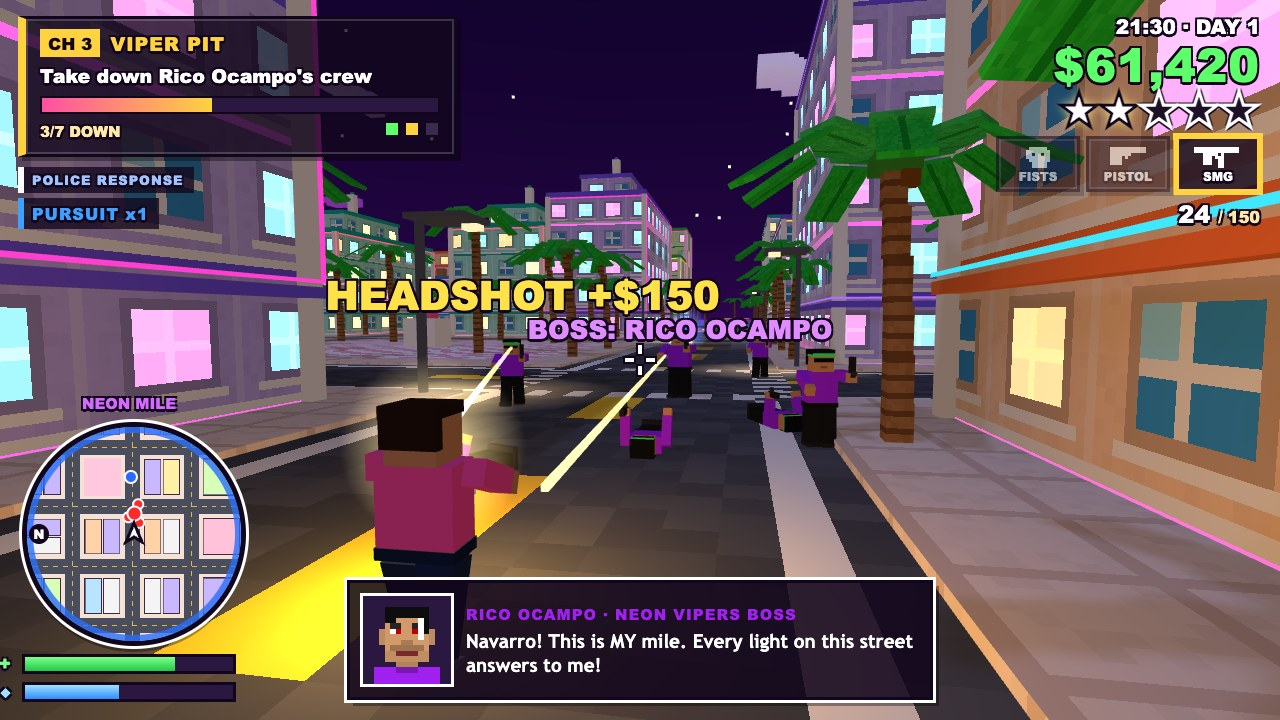
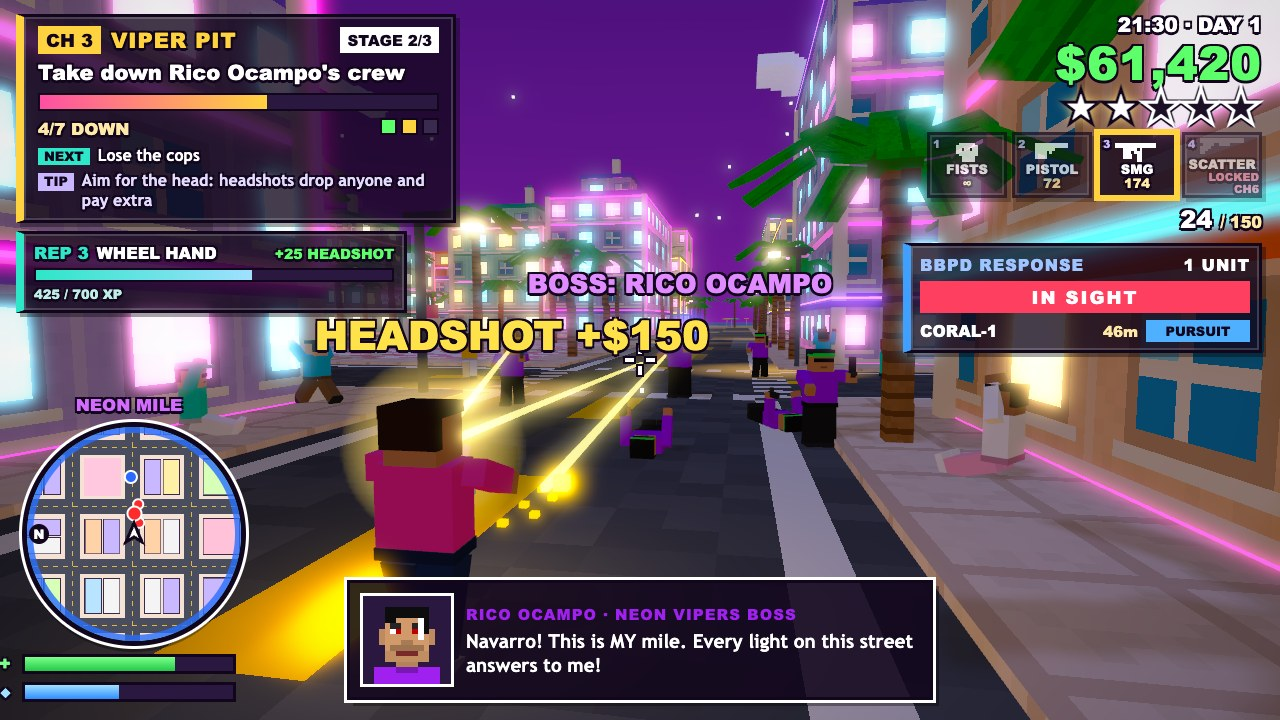
Upgrade: camera module, tyre screech, graphics/shake settings, deterministic shots, final screenshots, README layout

diff --git a/game/src/audio/radio.js b/game/src/audio/radio.js
@@ -5,7 +5,7 @@ import { makeRng } from '../core/rng.js';
 import { game, on } from '../core/state.js';
 
 let ac = null, master, musicBus, sfxBus, analyser, noiseBuf;
-let engine = null, siren = null;
+let engine = null, siren = null, screech = null;
 let station = 0, nextBeat = 0, step = 0, pattern = null;
 const levels = new Array(7).fill(0.1);
 let radioOn = false;
@@ -138,8 +138,9 @@ export function jingle(ok = true) {
   notes.forEach((n, i) => tone('square', midi(n), t + i * 0.12, 0.3, 0.12, sfxBus, 3000));
 }
 
-// Engine hum follows the player's car; the siren swells with the nearest police light bar.
-export function updateAudio(carSpeed, carTop, sirenDist) {
+// Engine hum follows the player's car (pitch climbs through each gear and drops on the shift), tyres
+// screech while they slide, and the siren swells with the nearest police light bar.
+export function updateAudio(carSpeed, carTop, sirenDist, skid = 0) {
   if (!ac) return;
   if (!engine) {
     const o = ac.createOscillator(), o2 = ac.createOscillator(), f = ac.createBiquadFilter(), g = ac.createGain();
@@ -151,6 +152,10 @@ export function updateAudio(carSpeed, carTop, sirenDist) {
     const sf = ac.createBiquadFilter(); sf.type = 'lowpass'; sf.frequency.value = 2200;
     lfo.connect(lg); lg.connect(so.frequency); so.connect(sf); sf.connect(sg); sg.connect(sfxBus); so.start(); lfo.start();
     siren = { g: sg };
+    const ns = ac.createBufferSource(), bp = ac.createBiquadFilter(), ng = ac.createGain();
+    ns.buffer = noiseBuf; ns.loop = true; bp.type = 'bandpass'; bp.frequency.value = 2100; bp.Q.value = 7; ng.gain.value = 0;
+    ns.connect(bp); bp.connect(ng); ng.connect(sfxBus); ns.start();
+    screech = { g: ng, f: bp };
   }
   const t = ac.currentTime;
   const on_ = carSpeed != null && game.mode === 'play';
@@ -162,16 +167,17 @@ export function updateAudio(carSpeed, carTop, sirenDist) {
   engine.g.gain.setTargetAtTime(on_ ? 0.05 + k * 0.06 : 0, t, 0.1);
   const sv = sirenDist < 120 && game.mode === 'play' ? 0.05 * (1 - sirenDist / 120) : 0;
   siren.g.gain.setTargetAtTime(sv, t, 0.2);
+  screech.g.gain.setTargetAtTime(on_ ? skid * 0.22 : 0, t, 0.05);
+  screech.f.frequency.setTargetAtTime(1700 + skid * 900 + k * 400, t, 0.1);
 }
 
-export function radioInfo() {
+export function radioInfo(t = performance.now() / 1000) {
   const st = STATIONS[station];
   if (analyser && radioOn) {
     const a = new Uint8Array(analyser.frequencyBinCount);
     analyser.getByteFrequencyData(a);
     for (let i = 0; i < 7; i++) levels[i] = levels[i] * 0.6 + (a[1 + i * 3] / 255) * 0.4;
   } else {
-    const t = performance.now() / 1000;
     for (let i = 0; i < 7; i++) levels[i] = st.style === 'off' ? 0.05 : 0.35 + 0.35 * Math.abs(Math.sin(t * (2 + i * 0.7) + i));
   }
   return { ...st, levels };

diff --git a/game/src/core/main.js b/game/src/core/main.js
@@ -31,6 +31,8 @@ const THREE = window.THREE;
 const params = new URLSearchParams(location.search);
 const SHOT = params.get('shot');
 setSeed(Number(params.get('seed') || 1));
+// Screenshot mode: CSS blink animations sit still so captures are repeatable.
+if (SHOT) document.body.classList.add('shot');
 
 // ---- Renderer + world -------------------------------------------------------------------
 const canvas = document.getElementById('view');
@@ -237,7 +239,7 @@ function respawn() {
 }
 
 // ---- Loop -------------------------------------------------------------------------------
-let last = performance.now() / 1000, t = 0, frozen = false;
+let last = SHOT ? 12.5 : performance.now() / 1000, t = 0, frozen = false;
 export const loop = { step, render, freeze: (f) => { frozen = f; } };
 
 function step(dt) {
@@ -270,10 +272,11 @@ function render(dt, now) {
     const a = now * 0.05;
     setCameraPose(SHOWCASE.x - 9 + Math.sin(a) * 2, 2.6, SHOWCASE.z + 7 + Math.cos(a) * 1.5, SHOWCASE.x - 1.5, 1.6, SHOWCASE.z - 1);
   } else if (game.mode !== 'title' && !frozen) updateCamera(dt, now);
-  if (game.mode === 'play' || game.mode === 'down' || SHOT) { updateHud(dt); drawMinimap(t); }
+  if (game.mode === 'play' || game.mode === 'down' || SHOT) { updateHud(dt, now); drawMinimap(t); }
   let sirenD = 999;
   for (const v of vehicles) if (v.siren) sirenD = Math.min(sirenD, Math.hypot(v.x - player.x, v.z - player.z));
-  updateAudio(player.vehicle ? player.vehicle.speed : null, player.vehicle ? player.vehicle.spec.top : 1, sirenD);
+  const pv = player.vehicle;
+  updateAudio(pv ? pv.speed : null, pv ? pv.spec.top : 1, sirenD, pv ? pv.skid || 0 : 0);
   updateHeliGlare(camera, night);
   if (game.mode !== 'play' && !SHOT) post.speed = 0;
   applyGrade(night, sky.hour);
@@ -281,7 +284,8 @@ function render(dt, now) {
 }
 
 function frame() {
-  const now = performance.now() / 1000;
+  // Staged screenshots run on a pinned clock so every capture of a scene is identical.
+  const now = SHOT ? 12.5 : performance.now() / 1000;
   const dt = Math.min(0.05, now - last);
   last = now;
   if (!frozen) step(dt);

diff --git a/game/hud.css b/game/hud.css
@@ -37,7 +37,7 @@
 #rep .gain { margin-left: auto; font-style: normal; color: var(--green); font-size: 14px; }
 #rep .r-bar { position: relative; height: 10px; margin-top: 4px; background: #2a1840; border: 2px solid var(--ink); }
 #rep .r-bar i { position: absolute; left: 0; top: 0; bottom: 0; background: linear-gradient(90deg, var(--teal), #9fe0ff); }
-#rep .r-xp { font-size: 12px; color: #bfeee6; margin-top: 3px; }
+#rep .r-xp { font-size: 13px; color: #bfeee6; margin-top: 3px; }
 
 /* Top-right: clock, cash, stars, weapons, police response */
 #topright { position: absolute; right: 18px; top: 10px; text-align: right; display: flex; flex-direction: column; align-items: flex-end; }
@@ -55,7 +55,7 @@
 #weapons .slot.locked canvas { opacity: 0.3; }
 #weapons .slot.locked small { color: #ff8fa8; font-size: 11px; }
 #weapons canvas { width: 44px; height: 22px; image-rendering: pixelated; }
-#weapons .slot b { font-size: 12px; line-height: 1.1; }
+#weapons .slot b { font-size: 13px; line-height: 1.1; }
 #weapons .slot small { font-size: 13px; color: #ffe9a8; line-height: 1.1; }
 #weapons .slot .key { position: absolute; left: 3px; top: 1px; font-size: 11px; color: #c9b8ff; }
 #ammo { font-size: 24px; margin-top: 4px; color: #fff; }
@@ -132,3 +132,6 @@
 .dlg-portrait { width: 88px; height: 88px; image-rendering: pixelated; border: 3px solid #fff; flex: none; }
 .dlg-name { font-size: 15px; letter-spacing: 1px; }
 .dlg-text { font-family: "Trebuchet MS", "Verdana", sans-serif; font-weight: bold; font-size: 19px; line-height: 1.28; margin-top: 4px; color: #fff; }
+
+/* Staged screenshots: blinking HUD elements hold their first frame. */
+.shot * { animation-play-state: paused !important; }

diff --git a/game/src/ui/hud.js b/game/src/ui/hud.js
@@ -178,7 +178,7 @@ function updateWeapons() {
   setHTML(els.ammo, 'ammo', w.clip ? (isReloading() ? 'RELOADING' : `${game.clip[w.id]} <small>/ ${game.ammo[w.id]}</small>`) : '<small>MELEE</small>');
 }
 
-function updateSpeedo(v) {
+function updateSpeedo(v, now) {
   els.speedo.style.display = v ? 'block' : 'none';
   els.radio.style.display = v ? 'flex' : 'none';
   if (!v) return;
@@ -196,7 +196,7 @@ function updateSpeedo(v) {
   cb.style.background = hp > 60 ? '#5dff6a' : hp > 30 ? '#ffd23f' : '#ff3f5f';
   els.speedo.querySelector('.cpct').textContent = `${hp}%`;
   setHTML(els.speedo.querySelector('.car'), 'car', `${v.spec.name}${v.stolen ? ' <em>STOLEN</em>' : ''}`);
-  const r = radioInfo();
+  const r = radioInfo(now);
   els.radio.querySelector('.st').textContent = r.name;
   els.radio.querySelector('.st').style.color = r.color;
   els.radio.querySelector('.tag').textContent = r.tag ? `${r.tag}  ·  E: NEXT` : 'E: NEXT STATION';
@@ -204,7 +204,7 @@ function updateSpeedo(v) {
   els.radio.querySelectorAll('.eq i').forEach((b, i) => { b.style.height = `${r.levels[i] * 24 + 2}px`; b.style.background = r.color; });
 }
 
-export function updateHud(dt) {
+export function updateHud(dt, now = performance.now() / 1000) {
   updateMission();
   updateRep(dt);
   updateResponse();
@@ -229,7 +229,7 @@ export function updateHud(dt) {
   els.district.style.color = d.color;
 
   const v = player.vehicle;
-  updateSpeedo(v);
+  updateSpeedo(v, now);
 
   // Crosshair on foot with a gun
   els.crosshair.style.display = !v && game.mode === 'play' && (game.weapon > 0 || player.aiming) ? 'block' : 'none';

diff --git a/game/src/ui/menus.js b/game/src/ui/menus.js
@@ -181,7 +181,7 @@ function pauseBody() {
 }
 
 function settingsHTML() {
-  const rows = [['music', 'MUSIC', Math.round((game.musicVol ?? 0.32) * 100 / 0.32 / 10)], ['sfx', 'EFFECTS', Math.round((game.sfxVol ?? 0.8) * 10)], ['sens', 'MOUSE', Math.round((game.sens ?? 1) * 5)], ['shadows', 'SHADOWS', game.shadows === false ? 'OFF' : 'ON']];
+  const rows = [['music', 'MUSIC', Math.round((game.musicVol ?? 0.32) * 100 / 0.32 / 10)], ['sfx', 'EFFECTS', Math.round((game.sfxVol ?? 0.8) * 10)], ['sens', 'MOUSE', Math.round((game.sens ?? 1) * 5)], ['shadows', 'SHADOWS', game.shadows === false ? 'OFF' : 'ON'], ['quality', 'GRAPHICS', game.quality === 'LOW' ? 'LOW' : 'HIGH'], ['shake', 'CAM SHAKE', game.shake === false ? 'OFF' : 'ON']];
   return `<div class="settings"><h3 style="color:#ffd23f">SETTINGS</h3>${rows.map(([id, l, v]) => `<div class="row"><span style="width:120px">${l}</span><span class="btn" data-set="${id}" data-d="-1">-</span><b style="width:50px;text-align:center">${v}</b><span class="btn" data-set="${id}" data-d="1">+</span></div>`).join('')}</div>`;
 }
 

diff --git a/game/src/dev/shots.js b/game/src/dev/shots.js
@@ -11,7 +11,7 @@ import { police, setWanted, spawnUnit, placeHeli, placeRoadblockAt } from '../ga
 import { spawnShooter, shooters, damageCharacter } from '../gameplay/combat.js';
 import { startMission, ms } from '../gameplay/missions.js';
 import { MISSIONS } from '../data/missions-data.js';
-import { showLine } from '../ui/dialogue.js';
+import { showLine, clearDialogue } from '../ui/dialogue.js';
 import { setStation, setRadioPlaying } from '../audio/radio.js';
 import { holdPopup, clearCenterText } from '../ui/hud.js';
 import { flash, holdFlash, tracer, sparks, spawn, tyreSmoke, updateEffects } from '../fx/effects.js';
@@ -122,7 +122,7 @@ const SCENES = {
     ];
     crowd.forEach(([x, z, st, yaw], i) => stagePed(x, z, st, yaw, i * 1.7));
     setStation(0); setRadioPlaying(true);
-    showLine('mari', "You've got the whole BBPD on your bumper. Lose them before the yacht leaves Coral Pier!");
+    clearDialogue();
     player.camYaw = Math.PI;
     player.model.visible = false;
     post.speed = speedRush(car) * 0.85;

diff --git a/game/src/gameplay/vehicles.js b/game/src/gameplay/vehicles.js
@@ -91,6 +91,7 @@ export class Vehicle {
     const slide = Math.max(0, this.drift - 2.5) / 6;
     const lock = (c.handbrake || c.brake > 0.5) && vf > 9 ? 0.6 : 0;
     const skid = Math.min(1, Math.max(slide, lock)) * (this.speed > 6 ? 1 : 0);
+    this.skid = skid;
     skidCar(this, skid);
     if (skid > 0.25 && Math.random() < skid * 0.9) tyreSmoke(this.x - nfx * s.len * 0.32, this.z - nfz * s.len * 0.32, this.vx, this.vz);
     if (this.health < 35 && !this.wrecked && Math.random() < 0.3) smoke(this.x + nfx * 1.8, 1.2, this.z + nfz * 1.8, this.health < 15 ? '#2a2a2a' : '#666666', 1, { size: 0.8, grow: 2.5 });

diff --git a/README.md b/README.md
@@ -4,7 +4,7 @@
 [![rank](https://make.fun/badge/gta6-01/tinhdowoss/blockside-bay/rank.svg)](https://make.fun/bounty/gta6-01/leaderboard?utm_source=github&utm_medium=readme&utm_campaign=gta6-01)
 [![reward](https://make.fun/badge/gta6-01/tinhdowoss/blockside-bay/reward.svg)](https://make.fun/bounty/gta6-01?utm_source=github&utm_medium=readme&utm_campaign=gta6-01)
 
-BLOCKSIDE BAY is an original voxel open-world crime game that runs in the browser. You play Kai Navarro, six years out of prison and back in a pastel art-deco bay city, working for Mari, Teddy, Jolie and Dez against the Neon Vipers and Augustine Salt's Saltwater Kings. Steal cars, shake the BBPD and work through a 9-mission story across 7 chapters. All characters, places, dialogue, textures and music are original. It is plain JavaScript ES modules with no build step, and three.js is vendored in `game/vendor/three.min.js`.
+BLOCKSIDE BAY is an original voxel open-world crime game that runs in the browser. You play Kai Navarro, six years out of prison and back in a pastel art-deco bay city, working with Mari, Teddy, Jolie, Dez and Pia against the Neon Vipers and Augustine Salt's Saltwater Kings. Steal cars, shake the BBPD and work through a 9-mission story across 7 chapters. All characters, places, dialogue, textures and music are original. It is plain JavaScript ES modules with no build step, and three.js is vendored in `game/vendor/three.min.js`.
 
 ![Police chase](screenshots/1-chase.jpg)
 ![Title screen](screenshots/2-title.jpg)
@@ -12,12 +12,13 @@ BLOCKSIDE BAY is an original voxel open-world crime game that runs in the browse
 **Features**
 
 - A grid city with 7 districts (Palmetto Heights, Neon Mile, Midtown Reef, Mangrove Docks, Little Caracol, Coral Pier, Sunset Shores) plus Seaglass Beach, the ocean and a pier
-- 6 drivable car models, civilian traffic that drives in lanes, and pedestrians who flee from gunfire
+- 6 drivable car models, civilian traffic that drives in lanes, and pedestrians who duck and cover or run from gunfire and dive clear of speeding cars
 - Carjacking: pulling a driver out of a car adds a wanted star
-- Wanted level from 0 to 5 stars. Police cars chase and ram you, a helicopter with a searchlight joins at 3 stars and roadblocks go up at 4. Stay out of sight long enough and the stars drop
-- Fists, a pistol and an SMG (the SMG unlocks through the story), with reloading and headshot bonuses
-- 9 story missions with dialogue: steal, deliver, eliminate, pick up, timed escapes and boss fights
-- A day/night cycle, a rotating minimap, and a pause menu with Map, Missions, Stats, Save and Settings tabs
+- Wanted level from 0 to 5 stars. Police cars chase and ram you, a helicopter with a searchlight joins at 3 stars and roadblocks go up at 4. A BBPD response panel lists every unit by call sign with its distance and state (RAMMING, PURSUIT, ROADBLOCK, SPOTLIGHT, SEARCHING). Stay out of sight long enough and the stars drop
+- Fists, a pistol, an SMG and the SCATTER shotgun (the last two unlock through the story), with reloading, hit sparks and headshot bonuses
+- Street reputation: XP from missions, takedowns, carjacks and escapes raises your REP level and title
+- 9 story missions with dialogue: steal, deliver, eliminate, pick up, timed escapes and boss fights. The mission panel shows the stage, the objective, what comes next and a tip; the map shows numbered story pins and a route
+- A day/night cycle with golden-hour haze and a bloom post pass (neon, light bars and muzzle flashes glow), tyre smoke, skid marks, speed streaks and speed-based camera FOV and shake, a rotating minimap, and a pause menu with Map, Missions, Stats, Save and Settings tabs
 - Three procedural WebAudio radio stations (synthwave, bay house, tropical brass)
 - Skills that improve as you play (driving, shooting, stamina, stealth) and 3 save slots stored in localStorage
 
@@ -28,9 +29,22 @@ BLOCKSIDE BAY is an original voxel open-world crime game that runs in the browse
 - **Shift**: sprint on foot, handbrake in a car (Space also works as handbrake)
 - **F**: enter, exit or steal a vehicle
 - **E**: talk to a nearby pedestrian on foot, change radio station in a car
-- **Tab** (or Q): cycle weapons. **R**: reload
+- **Tab** (or Q): cycle weapons. **1-4**: pick a weapon. **R**: reload
 - **M**: map and save menu
 - **Esc**: pause
+
+## Source layout
+
+`game/src` is split by job:
+
+- `core/`: boot and main loop, config, seeded RNG, shared state, input, save slots, settings
+- `world/`: city builder, daylight, textures, voxel batching, models, traffic, pedestrians
+- `gameplay/`: player, camera, vehicles, carjacking, police, combat, missions, progression
+- `data/`: story missions and the cast
+- `ui/`: HUD, minimap, menus, dialogue, pixel font
+- `audio/`: procedural radio and sound effects
+- `fx/`: particles, smoke, skid marks, post-processing, colour grade
+- `dev/`: deterministic screenshot scenes (`?shot=chase|title|combat|map&seed=1`)
 
 ## Run it
 
